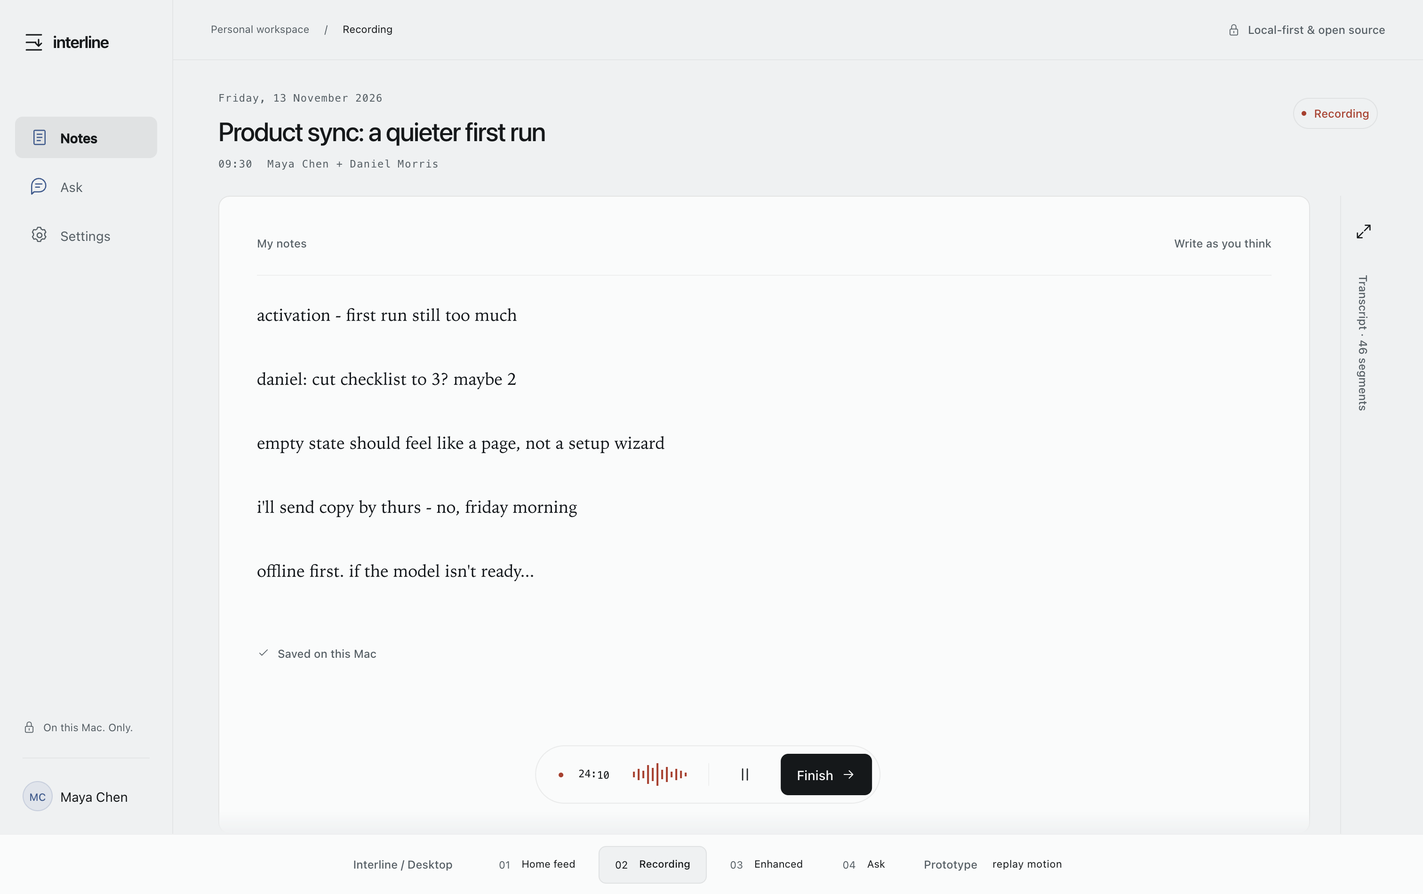
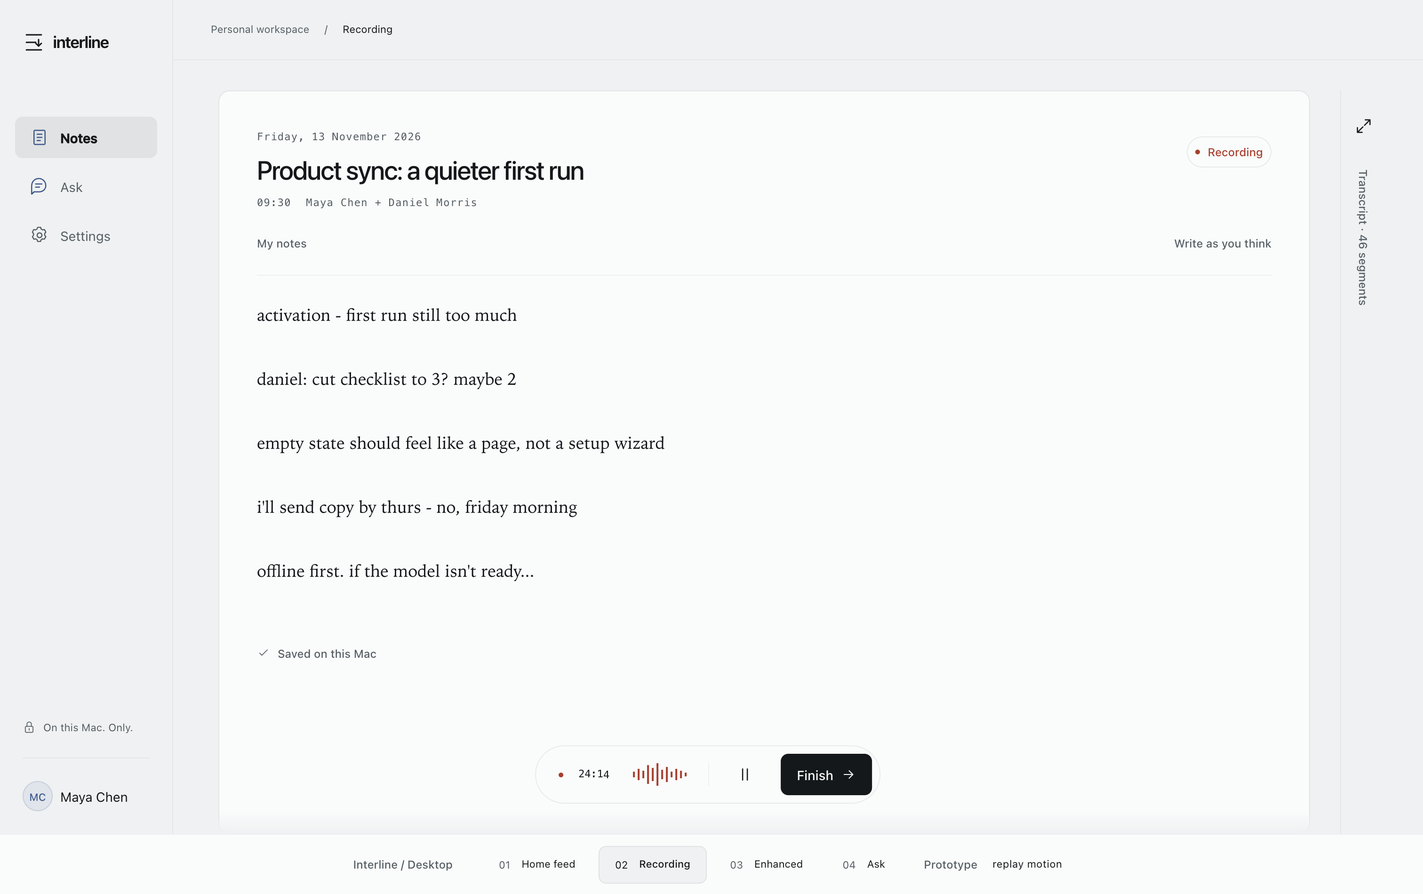
Placement pass: note header on the paper grid, live elapsed timer, honest time labels
- Note header aligned to the paper text edge instead of the page
- Reassurance to first section gap fixed at 16px then 28px
- Live card shows a running elapsed timer, finished cards keep duration
- Day groups no longer repeat the date inside their cards
- Topbar privacy pill removed, rail and note lines kept
- State bars span title to summary, inset 24px
- SPEC US-3.9: output budget for AI additions (<= one line more than the fragment)

diff --git a/design/interline-desktop.html b/design/interline-desktop.html
@@ -152,6 +152,22 @@ input.check-box:checked::after{content:"";position:absolute;left:6px;top:3px;wid
 .citation::after,.source-row::after{content:"";position:absolute;left:50%;top:50%;width:max(44px,100%);height:max(44px,100%);transform:translate(-50%,-50%)}
 #screen-home>.scroll-area{padding-bottom:96px;mask-image:linear-gradient(to bottom,black calc(100% - 32px),transparent)}
 
+/* Shared paper placement; colour, typography and choreography remain unchanged. */
+.meeting-layout,.enhanced-layout{padding-top:32px}
+.note-paper>.meeting-header,.enhanced-paper>.meeting-header{width:100%;padding:0 0 24px;display:grid;grid-template-columns:minmax(0,1fr) auto;align-items:start;gap:24px}
+.meeting-header>div:first-child{min-width:0}.meeting-header .header-actions{justify-self:end}
+.enhancement-notice{padding-bottom:0;margin-bottom:16px}
+.enhanced-paper>.note-body>.note-section:first-child{margin-top:0;padding-top:28px}
+.meeting-card::before{content:none}
+.card-copy{display:flex;align-items:flex-end;gap:24px;margin-top:8px}
+.card-text{position:relative;min-width:0;flex:1;padding-left:12px;display:flow-root}
+.card-text .card-title{margin:0 0 8px}
+.card-text::before{content:"";position:absolute;left:-1px;top:0;bottom:0;width:2px;background:var(--state-stroke);border-radius:999px;pointer-events:none}
+.card-copy>.duration{flex-shrink:0}
+#screen-home>.scroll-area{scroll-padding-bottom:96px}
+@media(max-width:760px){.note-paper>.meeting-header,.enhanced-paper>.meeting-header{grid-template-columns:minmax(0,1fr)}.meeting-header .header-actions{width:auto;grid-column:1;justify-content:flex-end}.meeting-header>.recording-stamp{justify-self:end}}
+@media(max-width:430px){.card-copy{flex-direction:column;align-items:stretch;gap:8px}.card-copy>.duration{align-self:flex-start;margin-left:12px}}
+
 </style>
 </head>
 <body>
@@ -179,7 +195,7 @@ input.check-box:checked::after{content:"";position:absolute;left:6px;top:3px;wid
 <div class="rail-bottom"><div class="local-label"><svg aria-hidden="true"><use href="#i-lock"/></svg><span>On this Mac. Only.</span></div><div class="profile"><span class="initials">MC</span><span>Maya Chen</span></div></div>
 </aside>
 <main class="main">
-<header class="topbar" data-od-id="workspace-header"><div class="breadcrumbs"><span>Personal workspace</span><span aria-hidden="true">/</span><span id="current-location">All notes</span></div><div class="topbar-right"><span class="meta local-status"><svg aria-hidden="true"><use href="#i-lock"/></svg>Local-first & open source</span><input class="search-field" id="search-input" type="search" placeholder="Search your notes" aria-label="Search notes" data-od-id="search-notes" hidden><button class="icon-button" id="search-button" aria-label="Search notes" data-od-id="open-search"><svg aria-hidden="true"><use href="#i-search"/></svg></button></div></header>
+<header class="topbar" data-od-id="workspace-header"><div class="breadcrumbs"><span>Personal workspace</span><span aria-hidden="true">/</span><span id="current-location">All notes</span></div><div class="topbar-right"><input class="search-field" id="search-input" type="search" placeholder="Search your notes" aria-label="Search notes" data-od-id="search-notes" hidden><button class="icon-button" id="search-button" aria-label="Search notes" data-od-id="open-search"><svg aria-hidden="true"><use href="#i-search"/></svg></button></div></header>
 <section class="screen active" id="screen-home" data-od-id="home-screen" aria-label="Home feed">
 <div class="scroll-area"><div class="feed">
 <header class="page-heading" data-od-id="home-heading"><div><p class="meta">Friday, 13 November 2026</p><h1>Good morning, Maya.</h1></div><span class="record-glow"><button class="primary record-button" data-go="recording" data-od-id="record-meeting"><svg aria-hidden="true"><use href="#i-mic"/></svg>Record</button></span></header>
@@ -187,18 +203,18 @@ input.check-box:checked::after{content:"";position:absolute;left:6px;top:3px;wid
 <div class="feed-label"><h2 class="meta">Your meetings</h2><span class="meta">5 notes this week</span></div>
 <div class="meeting-list" id="meeting-list">
 <div class="meta day-divider" data-od-id="feed-today">Today</div>
-<button class="meeting-card" data-meeting="product" data-od-id="meeting-product-sync"><div class="card-top"><span class="meta"><span class="live-now">now</span> · 09:30</span><span class="meta card-state live" title="Live: recording in progress"><i class="dot"></i>Live</span></div><h3 class="card-title">Product sync: a quieter first run</h3><div class="card-bottom"><p class="card-summary">A smaller onboarding checklist, a clearer empty state, and what we can ship on Friday.</p><span class="duration">24 min</span></div></button>
-<button class="meeting-card" data-meeting="customer" data-od-id="meeting-customer-feedback"><div class="card-top"><span class="meta">Today · 08:45</span><span class="meta card-state" title="Ready: completed meeting note">Ready</span></div><h3 class="card-title">Customer feedback: finding the first note</h3><div class="card-bottom"><p class="card-summary">People reach for search before folders. Bring the first saved note back into view.</p><span class="duration">18 min</span></div></button>
+<button class="meeting-card" data-meeting="product" data-od-id="meeting-product-sync"><div class="card-top"><span class="meta"><span class="live-now">now</span> · 09:30</span><span class="meta card-state live" title="Live: recording in progress"><i class="dot"></i>Live</span></div><div class="card-copy"><div class="card-text"><h3 class="card-title">Product sync: a quieter first run</h3><p class="card-summary">A smaller onboarding checklist, a clearer empty state, and what we can ship on Friday.</p></div><span class="duration" aria-label="Elapsed time 24:08">24:08</span></div></button>
+<button class="meeting-card" data-meeting="customer" data-date="13 Nov 2026" data-od-id="meeting-customer-feedback"><div class="card-top"><span class="meta">08:45</span><span class="meta card-state" title="Ready: completed meeting note">Ready</span></div><div class="card-copy"><div class="card-text"><h3 class="card-title">Customer feedback: finding the first note</h3><p class="card-summary">People reach for search before folders. Bring the first saved note back into view.</p></div><span class="duration">18 min</span></div></button>
 <div class="meta day-divider">Yesterday · 12 November</div>
-<button class="meeting-card" data-meeting="release" data-od-id="meeting-release-review"><div class="card-top"><span class="meta">12 Nov · 15:00</span><span class="meta card-state" title="Ready: completed meeting note">Ready</span></div><h3 class="card-title">Release review: less, but ready</h3><div class="card-bottom"><p class="card-summary">Keep transcript export out of this release; give the offline path one more careful pass.</p><span class="duration">32 min</span></div></button>
-<button class="meeting-card" data-meeting="design" data-od-id="meeting-design-critique"><div class="card-top"><span class="meta">12 Nov · 10:00</span><span class="meta card-state draft" title="Draft: note still to complete">Draft</span></div><h3 class="card-title">Design critique: the note comes first</h3><div class="card-bottom"><p class="card-summary">Rough thoughts on the recorder, the transcript peek, and keeping human words intact.</p><span class="duration">41 min</span></div></button>
+<button class="meeting-card" data-meeting="release" data-od-id="meeting-release-review"><div class="card-top"><span class="meta">15:00</span><span class="meta card-state" title="Ready: completed meeting note">Ready</span></div><div class="card-copy"><div class="card-text"><h3 class="card-title">Release review: less, but ready</h3><p class="card-summary">Keep transcript export out of this release; give the offline path one more careful pass.</p></div><span class="duration">32 min</span></div></button>
+<button class="meeting-card" data-meeting="design" data-date="12 Nov 2026" data-od-id="meeting-design-critique"><div class="card-top"><span class="meta">10:00</span><span class="meta card-state draft" title="Draft: note still to complete">Draft</span></div><div class="card-copy"><div class="card-text"><h3 class="card-title">Design critique: the note comes first</h3><p class="card-summary">Rough thoughts on the recorder, the transcript peek, and keeping human words intact.</p></div><span class="duration">41 min</span></div></button>
 <div class="meta day-divider">Wednesday · 11 November</div>
-<button class="meeting-card" data-meeting="planning" data-od-id="meeting-weekly-planning"><div class="card-top"><span class="meta">11 Nov · 09:00</span><span class="meta card-state" title="Ready: completed meeting note">Ready</span></div><h3 class="card-title">Weekly planning: close the loop</h3><div class="card-bottom"><p class="card-summary">Follow up with the pilot group and turn the interview notes into a short decision log.</p><span class="duration">28 min</span></div></button>
+<button class="meeting-card" data-meeting="planning" data-od-id="meeting-weekly-planning"><div class="card-top"><span class="meta">09:00</span><span class="meta card-state" title="Ready: completed meeting note">Ready</span></div><div class="card-copy"><div class="card-text"><h3 class="card-title">Weekly planning: close the loop</h3><p class="card-summary">Follow up with the pilot group and turn the interview notes into a short decision log.</p></div><span class="duration">28 min</span></div></button>
 </div><div class="empty" id="search-empty" hidden><h2 class="card-title">No matching notes</h2><p>Try a meeting title, like “release” or “product”.</p></div><p class="meta feed-end">A little less to remember.</p>
 </div></div></section>
 <section class="screen" id="screen-recording" data-od-id="recording-screen" aria-label="Recording meeting">
-<header class="meeting-header" data-od-id="recording-header"><div><div class="meta">Friday, 13 November 2026</div><h1>Product sync: a quieter first run</h1><div class="meta meeting-meta"><span>09:30</span><span>Maya Chen + Daniel Morris</span></div></div><span class="meta recording-stamp" id="recording-state"><i class="dot"></i><span>Recording</span></span></header>
-<div class="meeting-layout"><article class="note-paper scroll-area" data-od-id="recording-notes"><div class="paper-label"><span class="meta">My notes</span><span class="meta">Write as you think</span></div><div class="note-body" id="rough-notes">
+
+<div class="meeting-layout"><article class="note-paper scroll-area" data-od-id="recording-notes"><header class="meeting-header" data-od-id="recording-header"><div><div class="meta">Friday, 13 November 2026</div><h1>Product sync: a quieter first run</h1><div class="meta meeting-meta"><span>09:30</span><span>Maya Chen + Daniel Morris</span></div></div><span class="meta recording-stamp" id="recording-state"><i class="dot"></i><span>Recording</span></span></header><div class="paper-label"><span class="meta">My notes</span><span class="meta">Write as you think</span></div><div class="note-body" id="rough-notes">
 <p class="rough-line" contenteditable="true" role="textbox" aria-label="Note about activation" data-fragment="activation" data-od-id="rough-activation" spellcheck="false">activation - first run still too much</p>
 <p class="rough-line" contenteditable="true" role="textbox" aria-label="Note about the checklist" data-fragment="checklist" data-od-id="rough-checklist" spellcheck="false">daniel: cut checklist to 3? maybe 2</p>
 <p class="rough-line" contenteditable="true" role="textbox" aria-label="Note about the empty state" data-fragment="empty" data-od-id="rough-empty-state" spellcheck="false">empty state should feel like a page, not a setup wizard</p>
@@ -209,8 +225,8 @@ input.check-box:checked::after{content:"";position:absolute;left:6px;top:3px;wid
 <div class="recorder" id="recorder" data-od-id="floating-recorder"><i class="dot" style="color:var(--signal)"></i><span class="timer" id="timer" aria-label="Recording duration">24:08</span><div class="meter" aria-hidden="true"><i style="--level:6px"></i><i style="--level:12px"></i><i style="--level:8px"></i><i style="--level:20px"></i><i style="--level:14px"></i><i style="--level:24px"></i><i style="--level:10px"></i><i style="--level:16px"></i><i style="--level:6px"></i><i style="--level:12px"></i><i style="--level:8px"></i><i style="--level:4px"></i></div><span class="recorder-divider"></span><button class="pause-button" id="pause-button" data-od-id="pause-recording" aria-label="Pause recording" aria-pressed="false"><svg class="pause-icon" aria-hidden="true"><use href="#i-pause"/></svg><svg class="resume-icon" aria-hidden="true"><use href="#i-play"/></svg></button><button class="primary finish" id="finish-button" data-od-id="finish-recording">Finish<svg aria-hidden="true"><use href="#i-arrow"/></svg></button></div>
 </section>
 <section class="screen" id="screen-enhanced" data-od-id="enhanced-screen" aria-label="Enhanced meeting notes">
-<header class="meeting-header enhanced-header" data-od-id="enhanced-header"><div><div class="meta">Friday, 13 November 2026</div><h1>Product sync: a quieter first run</h1><div class="meta meeting-meta"><span>09:30 · 24 min</span><span>Maya Chen + Daniel Morris</span></div></div><div class="header-actions"><button class="original-toggle" id="original-toggle" aria-pressed="false" data-od-id="see-original"><span class="switch" aria-hidden="true"></span>see my original</button><button class="secondary" data-open-transcript="activation" data-od-id="enhanced-transcript"><svg aria-hidden="true"><use href="#i-transcript"/></svg>Transcript</button></div></header>
-<div class="enhanced-layout scroll-area"><article class="enhanced-paper" id="enhanced-paper" data-od-id="enhanced-note"><div class="paper-label"><span class="meta enhanced-label"><span class="stamp-caption">Your note, completed</span><span class="stamp-swap" aria-hidden="true"><span class="stamp-before">Recording</span><span class="stamp-after">Enhanced</span></span></span><span class="meta original-label">Your original note</span><div class="ink-legend meta"><span><i class="ink-key" aria-hidden="true"></i>your words</span><span><i class="ink-key machine" aria-hidden="true"></i>interline added</span></div></div><p class="enhancement-notice"><svg aria-hidden="true"><use href="#i-lock"/></svg><span>Your words are untouched. Only the gaps are filled.</span></p><div class="note-body">
+
+<div class="enhanced-layout scroll-area"><article class="enhanced-paper" id="enhanced-paper" data-od-id="enhanced-note"><header class="meeting-header enhanced-header" data-od-id="enhanced-header"><div><div class="meta">Friday, 13 November 2026</div><h1>Product sync: a quieter first run</h1><div class="meta meeting-meta"><span>09:30 · 24 min</span><span>Maya Chen + Daniel Morris</span></div></div><div class="header-actions"><button class="original-toggle" id="original-toggle" aria-pressed="false" data-od-id="see-original"><span class="switch" aria-hidden="true"></span>see my original</button><button class="secondary" data-open-transcript="activation" data-od-id="enhanced-transcript"><svg aria-hidden="true"><use href="#i-transcript"/></svg>Transcript</button></div></header><div class="paper-label"><span class="meta enhanced-label"><span class="stamp-caption">Your note, completed</span><span class="stamp-swap" aria-hidden="true"><span class="stamp-before">Recording</span><span class="stamp-after">Enhanced</span></span></span><span class="meta original-label">Your original note</span><div class="ink-legend meta"><span><i class="ink-key" aria-hidden="true"></i>your words</span><span><i class="ink-key machine" aria-hidden="true"></i>interline added</span></div></div><p class="enhancement-notice"><svg aria-hidden="true"><use href="#i-lock"/></svg><span>Your words are untouched. Only the gaps are filled.</span></p><div class="note-body">
 <section class="note-section machine-only" data-od-id="note-summary"><h2>Summary</h2><div class="machine-block"><p>Make the first run feel like opening a notebook. Reduce onboarding to two steps, let people write before the local model is ready, and keep Friday’s release focused. <button class="citation" data-open-transcript="checklist" aria-label="Transcript from 08:42 to 23:52">08:42 - 23:52</button></p></div></section>
 <section class="note-section" data-od-id="note-key-points"><h2>Key points</h2><div class="note-pair"><p class="human" data-human="activation"></p><div class="machine-block"><p>The setup asks for too much before someone can capture a thought. Move optional preferences out of the first run. <button class="citation" data-open-transcript="activation" aria-label="Transcript at 04:12">04:12</button></p></div></div><div class="note-pair"><p class="human" data-human="checklist"></p><div class="machine-block"><p>Agreed on two steps: allow microphone access, then start a note. Folder choice can wait. <button class="citation" data-open-transcript="checklist" aria-label="Transcript at 08:42">08:42</button></p></div></div><div class="note-pair"><p class="human" data-human="empty"></p><div class="machine-block"><p>Use an open writing surface with one invitation: “What’s on your mind?” No tour or checklist in the note itself. <button class="citation" data-open-transcript="empty" aria-label="Transcript at 12:18">12:18</button></p></div></div></section>
 <section class="note-section" data-od-id="note-action-items"><h2>Action items</h2><div class="note-pair"><p class="human" data-human="copy"></p><div class="machine-block action-row"><input type="checkbox" class="check-box" aria-label="Mark revised first-run copy as done" data-od-id="complete-copy"><div><p>Send the revised first-run copy before the design & engineering handoff. <button class="citation" data-open-transcript="copy" aria-label="Transcript at 18:06">18:06</button></p><span class="owner"><span class="owner-name">Maya Chen</span> · <span class="due-date">Fri 13 Nov · Before 14:00</span></span></div></div></div><div class="machine-block action-row"><input type="checkbox" class="check-box" aria-label="Mark two-step flow and offline check as done" data-od-id="complete-offline-check"><div><p>Build the two-step flow and check that notes still save with the network off. <button class="citation" data-open-transcript="offline" aria-label="Transcript at 23:36">23:36</button></p><span class="owner"><span class="owner-name">Daniel Morris</span> · <span class="due-date">Fri 13 Nov</span></span></div></div></section>
@@ -253,8 +269,8 @@ $$('[data-fragment]').forEach(el=>{
  el.addEventListener('paste',event=>{event.preventDefault();const text=event.clipboardData.getData('text/plain');const selection=window.getSelection();if(!selection.rangeCount)return;const range=selection.getRangeAt(0);range.deleteContents();const node=document.createTextNode(text);range.insertNode(node);range.setStartAfter(node);range.collapse(true);selection.removeAllRanges();selection.addRange(range);el.dispatchEvent(new Event('input'))});
 });
 $('#pause-button').addEventListener('click',event=>{$('#recorder').classList.toggle('instant-icons',event.detail===0);paused=!paused;$('#recorder').classList.toggle('paused',paused);$('#pause-button').setAttribute('aria-pressed',String(paused));$('#pause-button').setAttribute('aria-label',paused?'Resume recording':'Pause recording');$('#recording-state span').textContent=paused?'Paused':'Recording'});
-setInterval(()=>{if(activeScreen==='recording'&&!paused){elapsed++;renderTimer()}},1000);
-$('#finish-button').addEventListener('click',event=>{syncNotes();go('enhanced');if(event.detail>0)playInks();const state=$('[data-meeting="product"] .card-state');state.classList.remove('live');state.textContent='Ready';state.title='Ready: completed meeting note';notify('Note completed. Your original words are untouched.');});
+setInterval(()=>{if(!paused&&(activeScreen==='recording'||$('[data-meeting="product"] .live'))){elapsed++;renderTimer(activeScreen==='recording')}},1000);
+$('#finish-button').addEventListener('click',event=>{syncNotes();go('enhanced');if(event.detail>0)playInks();const state=$('[data-meeting="product"] .card-state');state.classList.remove('live');state.textContent='Ready';state.title='Ready: completed meeting note';const duration=$('[data-meeting="product"] .duration');duration.textContent=Math.floor(elapsed/60)+' min';duration.setAttribute('aria-label','Duration '+duration.textContent);notify('Note completed. Your original words are untouched.');});
 $('#original-toggle').addEventListener('click',()=>{cancelMotion('ink');const enabled=$('#original-toggle').getAttribute('aria-pressed')!=='true';$('#original-toggle').setAttribute('aria-pressed',String(enabled));$('#enhanced-paper').classList.toggle('original-only',enabled)});
 const transcriptData={
  product:{title:'Product sync: a quieter first run',date:'13 Nov 2026',segments:[
@@ -281,7 +297,7 @@ $$('dialog').forEach(dialog=>dialog.addEventListener('click',event=>{if(event.ta
 $('#settings-button').addEventListener('click',()=>$('#settings-dialog').showModal());
 $('#search-button').addEventListener('click',()=>{$('#search-input').hidden=!$('#search-input').hidden;if(!$('#search-input').hidden)$('#search-input').focus()});
 $('#search-input').addEventListener('input',()=>{const query=$('#search-input').value.toLowerCase().trim();let count=0;$$('.meeting-card').forEach(card=>{card.hidden=!card.textContent.toLowerCase().includes(query);if(!card.hidden)count++});$$('.day-divider').forEach(el=>el.hidden=!!query);$('#search-empty').hidden=count!==0});
-$$('[data-meeting]').forEach(card=>card.addEventListener('click',()=>{const key=card.dataset.meeting;if(key==='product'){go(card.querySelector('.live')?'recording':'enhanced');return}if(key==='release'||key==='planning'){openTranscript(key);return}$('#meeting-dialog-title').textContent=card.querySelector('.card-title').textContent;$('#meeting-dialog-meta').textContent=card.querySelector('.meta').textContent+' · '+card.querySelector('.duration').textContent+' · Maya Chen + Daniel Morris';$('#meeting-dialog-copy').textContent=card.querySelector('.card-summary').textContent;$('#meeting-dialog').showModal()}));
+$$('[data-meeting]').forEach(card=>card.addEventListener('click',()=>{const key=card.dataset.meeting;if(key==='product'){go(card.querySelector('.live')?'recording':'enhanced');return}if(key==='release'||key==='planning'){openTranscript(key);return}$('#meeting-dialog-title').textContent=card.querySelector('.card-title').textContent;$('#meeting-dialog-meta').textContent=(card.dataset.date?card.dataset.date+' · ':'')+card.querySelector('.meta').textContent+' · '+card.querySelector('.duration').textContent+' · Maya Chen + Daniel Morris';$('#meeting-dialog-copy').textContent=card.querySelector('.card-summary').textContent;$('#meeting-dialog').showModal()}));
 function notify(message){clearTimeout(toastTimeout);$('#toast').textContent=message;$('#toast').hidden=false;toastTimeout=setTimeout(()=>$('#toast').hidden=true,4200)}
 $('#ask-form').addEventListener('submit',event=>{event.preventDefault();const question=$('#ask-input').value.trim();if(!question)return;const response=$('#followup-response');response.replaceChildren();const heading=document.createElement('h2');heading.textContent=question;const answer=document.createElement('p');answer.textContent='This design includes one sample answer. A connected local model would search your notes for this question. You can explore the three cited meetings above.';response.append(heading,answer);response.hidden=false;$('#ask-input').value='';$('.ask-scroll').scrollTop=$('.ask-scroll').scrollHeight;});
 // Each run owns its cleanup; switching screens or replaying cancels the previous run.
@@ -367,6 +383,7 @@ function replayCurrent(){
 function renderTimer(animate=true){
  const value=String(Math.floor(elapsed/60)).padStart(2,'0')+':'+String(elapsed%60).padStart(2,'0');
  $('#timer').setAttribute('aria-label','Recording duration '+value);
+ if($('[data-meeting="product"] .live')){const duration=$('[data-meeting="product"] .duration');duration.textContent=value;duration.setAttribute('aria-label','Elapsed time '+value);}
  const changed=[];
  [...value].forEach((digit,index)=>{const cell=$('#timer').children[index];if(cell.querySelector('.digit-value').textContent===digit)return;cell.classList.remove('roll');cell.classList.remove('digit-fade');cell.dataset.before=cell.querySelector('.digit-value').textContent;cell.querySelector('.digit-value').textContent=digit;if(digit!==':')changed.push(cell)});
  if(animate&&changed.length){void $('#timer').offsetWidth;changed.forEach(cell=>cell.classList.add(reducedMotion.matches?'digit-fade':'roll'))}

diff --git a/docs/SPEC.md b/docs/SPEC.md
@@ -42,6 +42,7 @@ Status: draft 2, 2026-11-13. Decisions marked **[to confirm]** are tech lead ass
 - **US-3.6** I accept, edit or delete each addition; I can undo the whole enhancement.
 - **US-3.7** I choose a note template (1:1, client, interview, team meeting) that steers the enhancement.
 - **US-3.8** Without a configured LLM, the app stays useful: notes + transcript + search.
+- **US-3.9 (output budget)** An addition stays close to what it completes: at most one line more than the user fragment it hangs under, never more than three sentences, and never a paraphrase of the fragment itself. If the meeting said more, it goes to "Other points", not under my line. Rationale: the promise is that my words lead. Without a budget the model writes three times more than the user did and the page becomes the model's, which is exactly what the product exists to avoid. This budget is a prompt and validation rule, testable: for every addition, `len(addition) <= len(fragment) + one line`, and an addition that only restates its fragment is rejected.
 
 ### E4 - After the meeting
 - **US-4.1** Action items (who, what, due date if said) are extracted and listed, checkable.
